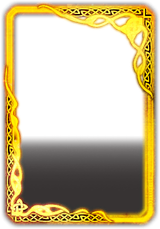
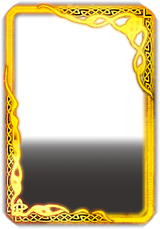
refactor: 罪人图片添加圆角, 删除其他覆盖层的四角的灰色像素

diff --git a/app/base_combination.py b/app/base_combination.py
@@ -413,28 +413,18 @@ class SinnerSelect(QFrame):
         self.setAttribute(Qt.WA_TransparentForMouseEvents, False)
 
         # Image Label
-        self.label_pic = BodyLabel(self)
-        self.label_pic.setAlignment(Qt.AlignCenter)
-        # self.label_pic.setSizePolicy(QSizePolicy.Expanding, QSizePolicy.Expanding)
+        self.label_pic = QFrame(self)
+        self.label_pic.setStyleSheet(f"""
+            QFrame {{
+                border-radius: 16px;
+                background-color: transparent;
+                border-image: url({sinner_img}) 0 0 0 0 stretch stretch;
+                border-width: 0px;
+            }}""")
 
         # Name Label
         self.label_str = BodyLabel(label_title)
         self.label_str.setAlignment(Qt.AlignCenter)
-
-        # Load and set image
-        pixmap = QPixmap(sinner_img)
-        if crop_left or crop_right or crop_top or crop_bottom:
-            rect = QRect(
-                crop_left,
-                crop_top,
-                pixmap.width() - crop_left - crop_right,
-                pixmap.height() - crop_top - crop_bottom,
-            )
-            pixmap = pixmap.copy(rect)
-
-        # Image pixel size 30.7 x 32
-        pixmap = pixmap.scaled(155, 239, Qt.KeepAspectRatio, Qt.SmoothTransformation)
-        self.label_pic.setPixmap(pixmap)
 
         # Opacity Effect for Image
         self.opacity_effect = QGraphicsOpacityEffect(self.label_pic)
@@ -533,7 +523,7 @@ class SinnerSelect(QFrame):
                 """
                 SinnerSelect {
                     background-color: rgba(28, 28, 28, 0.47); /* 半透明深色遮罩 */
-                    border-radius: 8px;
+                    border-radius: 16px;
                 }
             """
             )
@@ -542,7 +532,7 @@ class SinnerSelect(QFrame):
             self.setStyleSheet(
                 """
                 SinnerSelect {
-                    border-radius: 8px;
+                    border-radius: 16px;
                     background-color: transparent;
                 }
             """
